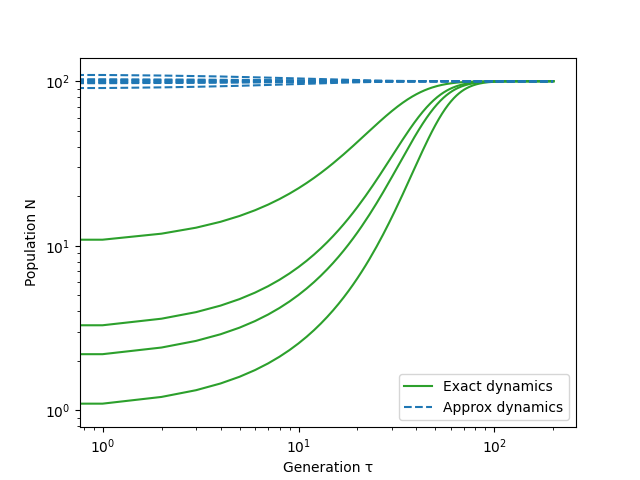
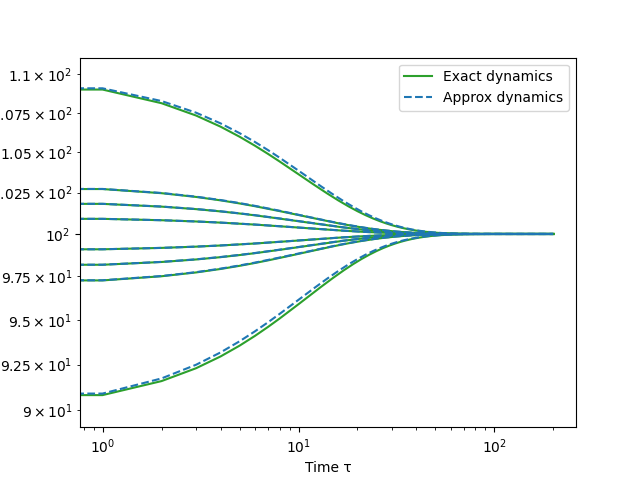
Upd

diff --git a/First homework/Exercise 2/taskD.py b/First homework/Exercise 2/taskD.py
@@ -8,12 +8,12 @@ def model(init_pop,iter):
     for i in range(iter):
         N = (r+1)*N/(1+np.power(N/k,b))
         a.append(N)
-    plt.loglog(a,c='tab:green',label=['Exact dynamics','','',''])
 
-    return N
+    return a
 
 def linear_approx(init_pop, fix_point, iter):
-    f_prime = ((r+1)*(1+np.power(fix_point/k,b)) - b*(r+1)*np.power(fix_point/k,b)) / (1 + np.power(fix_point/k,b))**2
+    f_prime = ((r+1)*(1+np.power(fix_point/k,b)) - 
+    b*(r+1)*np.power(fix_point/k,b)) / (1 + np.power(fix_point/k,b))**2
     a = []
     for i in range(iter):
         a.append( fix_point + f_prime**i * init_pop )
@@ -29,17 +29,23 @@ if __name__ == '__main__':
     iter = int(2*10**2)
     fp1 = 0
     fp2 = k*np.power(r,1/b)
+    plot_var = 0
 
-    print(model(n0,iter))
+    
 
-
-    aprx = linear_approx(n0,fp1,iter)
-    plt.loglog(aprx,'--',c='tab:blue',label=['Approx dynamics','','',''])
-
-    #aprx = linear_approx(dn0,fp2,iter)
-    #plt.loglog(aprx,'--',c='tab:blue',label=['Approx dynamics','','','','','','',''])
+    if plot_var == 1:
+        exact = model(n0,iter)
+        plt.loglog(exact,c='tab:green',label=['Exact dynamics','','',''])
+        aprx = linear_approx(n0,fp1,iter)
+        plt.loglog(aprx,'--',c='tab:blue',label=['Approx dynamics','','',''])
+    else:
+        pop_init = fp2 + dn0
+        exact = model(pop_init,iter)
+        plt.loglog(exact,c='tab:green',label=['Exact dynamics','','','','','','',''])
+        aprx = linear_approx(dn0,fp2,iter)
+        plt.loglog(aprx,'--',c='tab:blue',label=['Approx dynamics','','','','','','',''])
 
     plt.legend()
-    plt.xlabel('Generation \u03C4')
+    plt.xlabel('Time \u03C4')
     plt.ylabel('Population N')
     plt.show()
